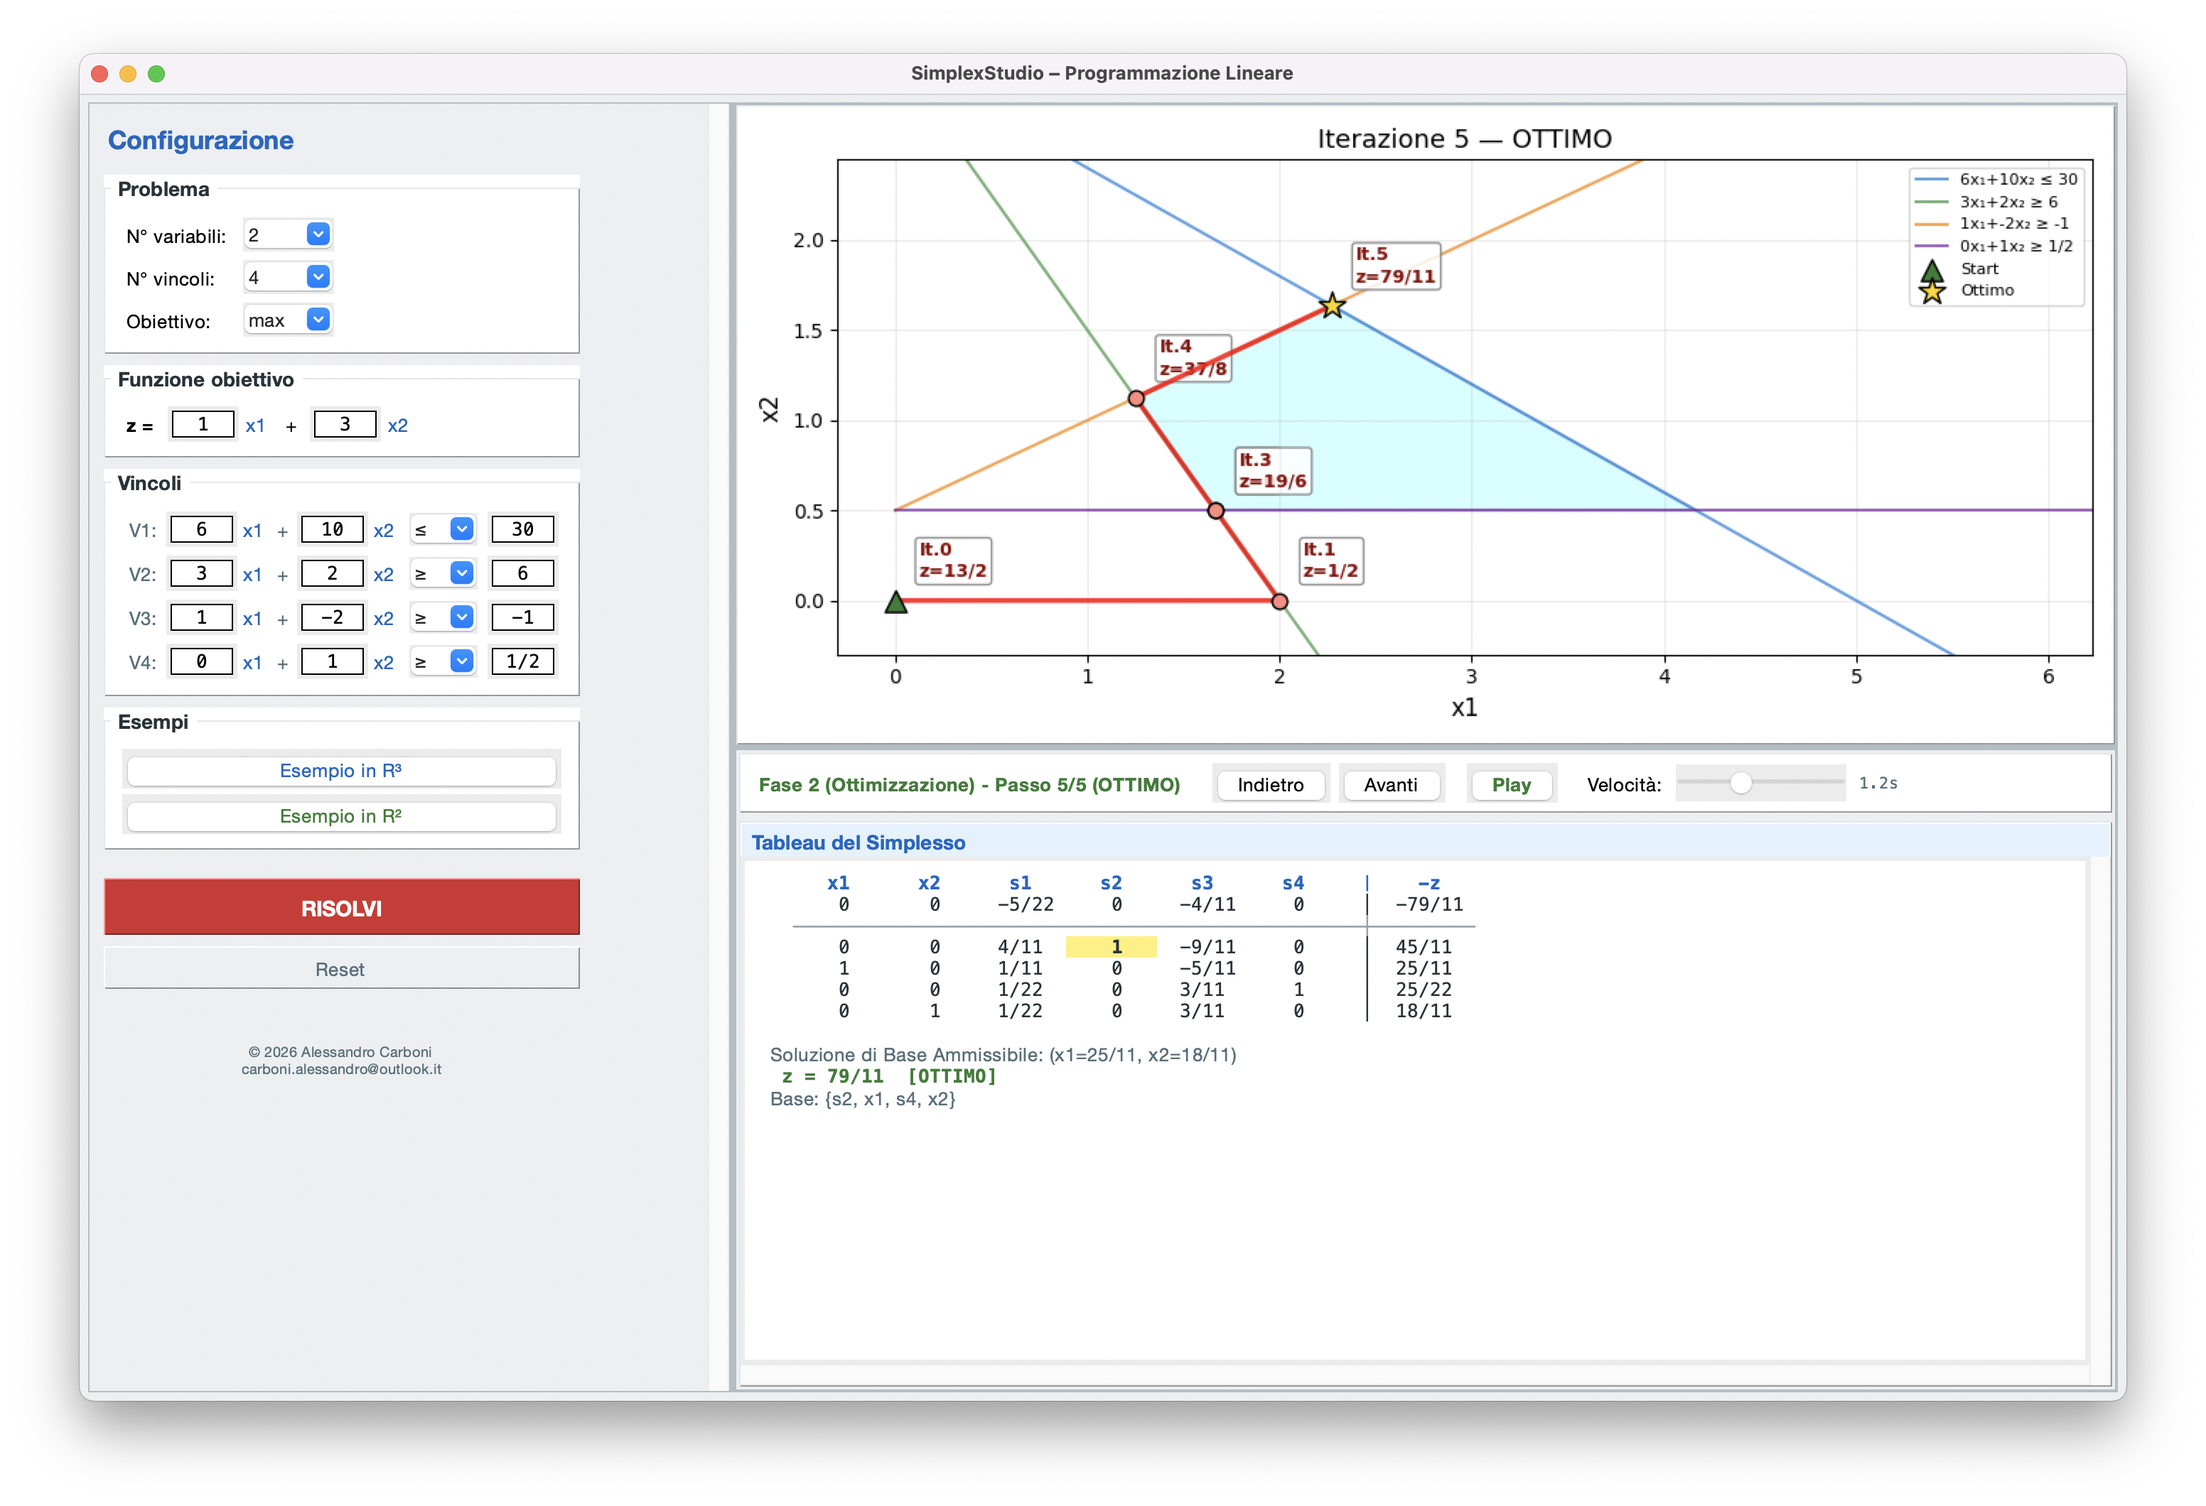
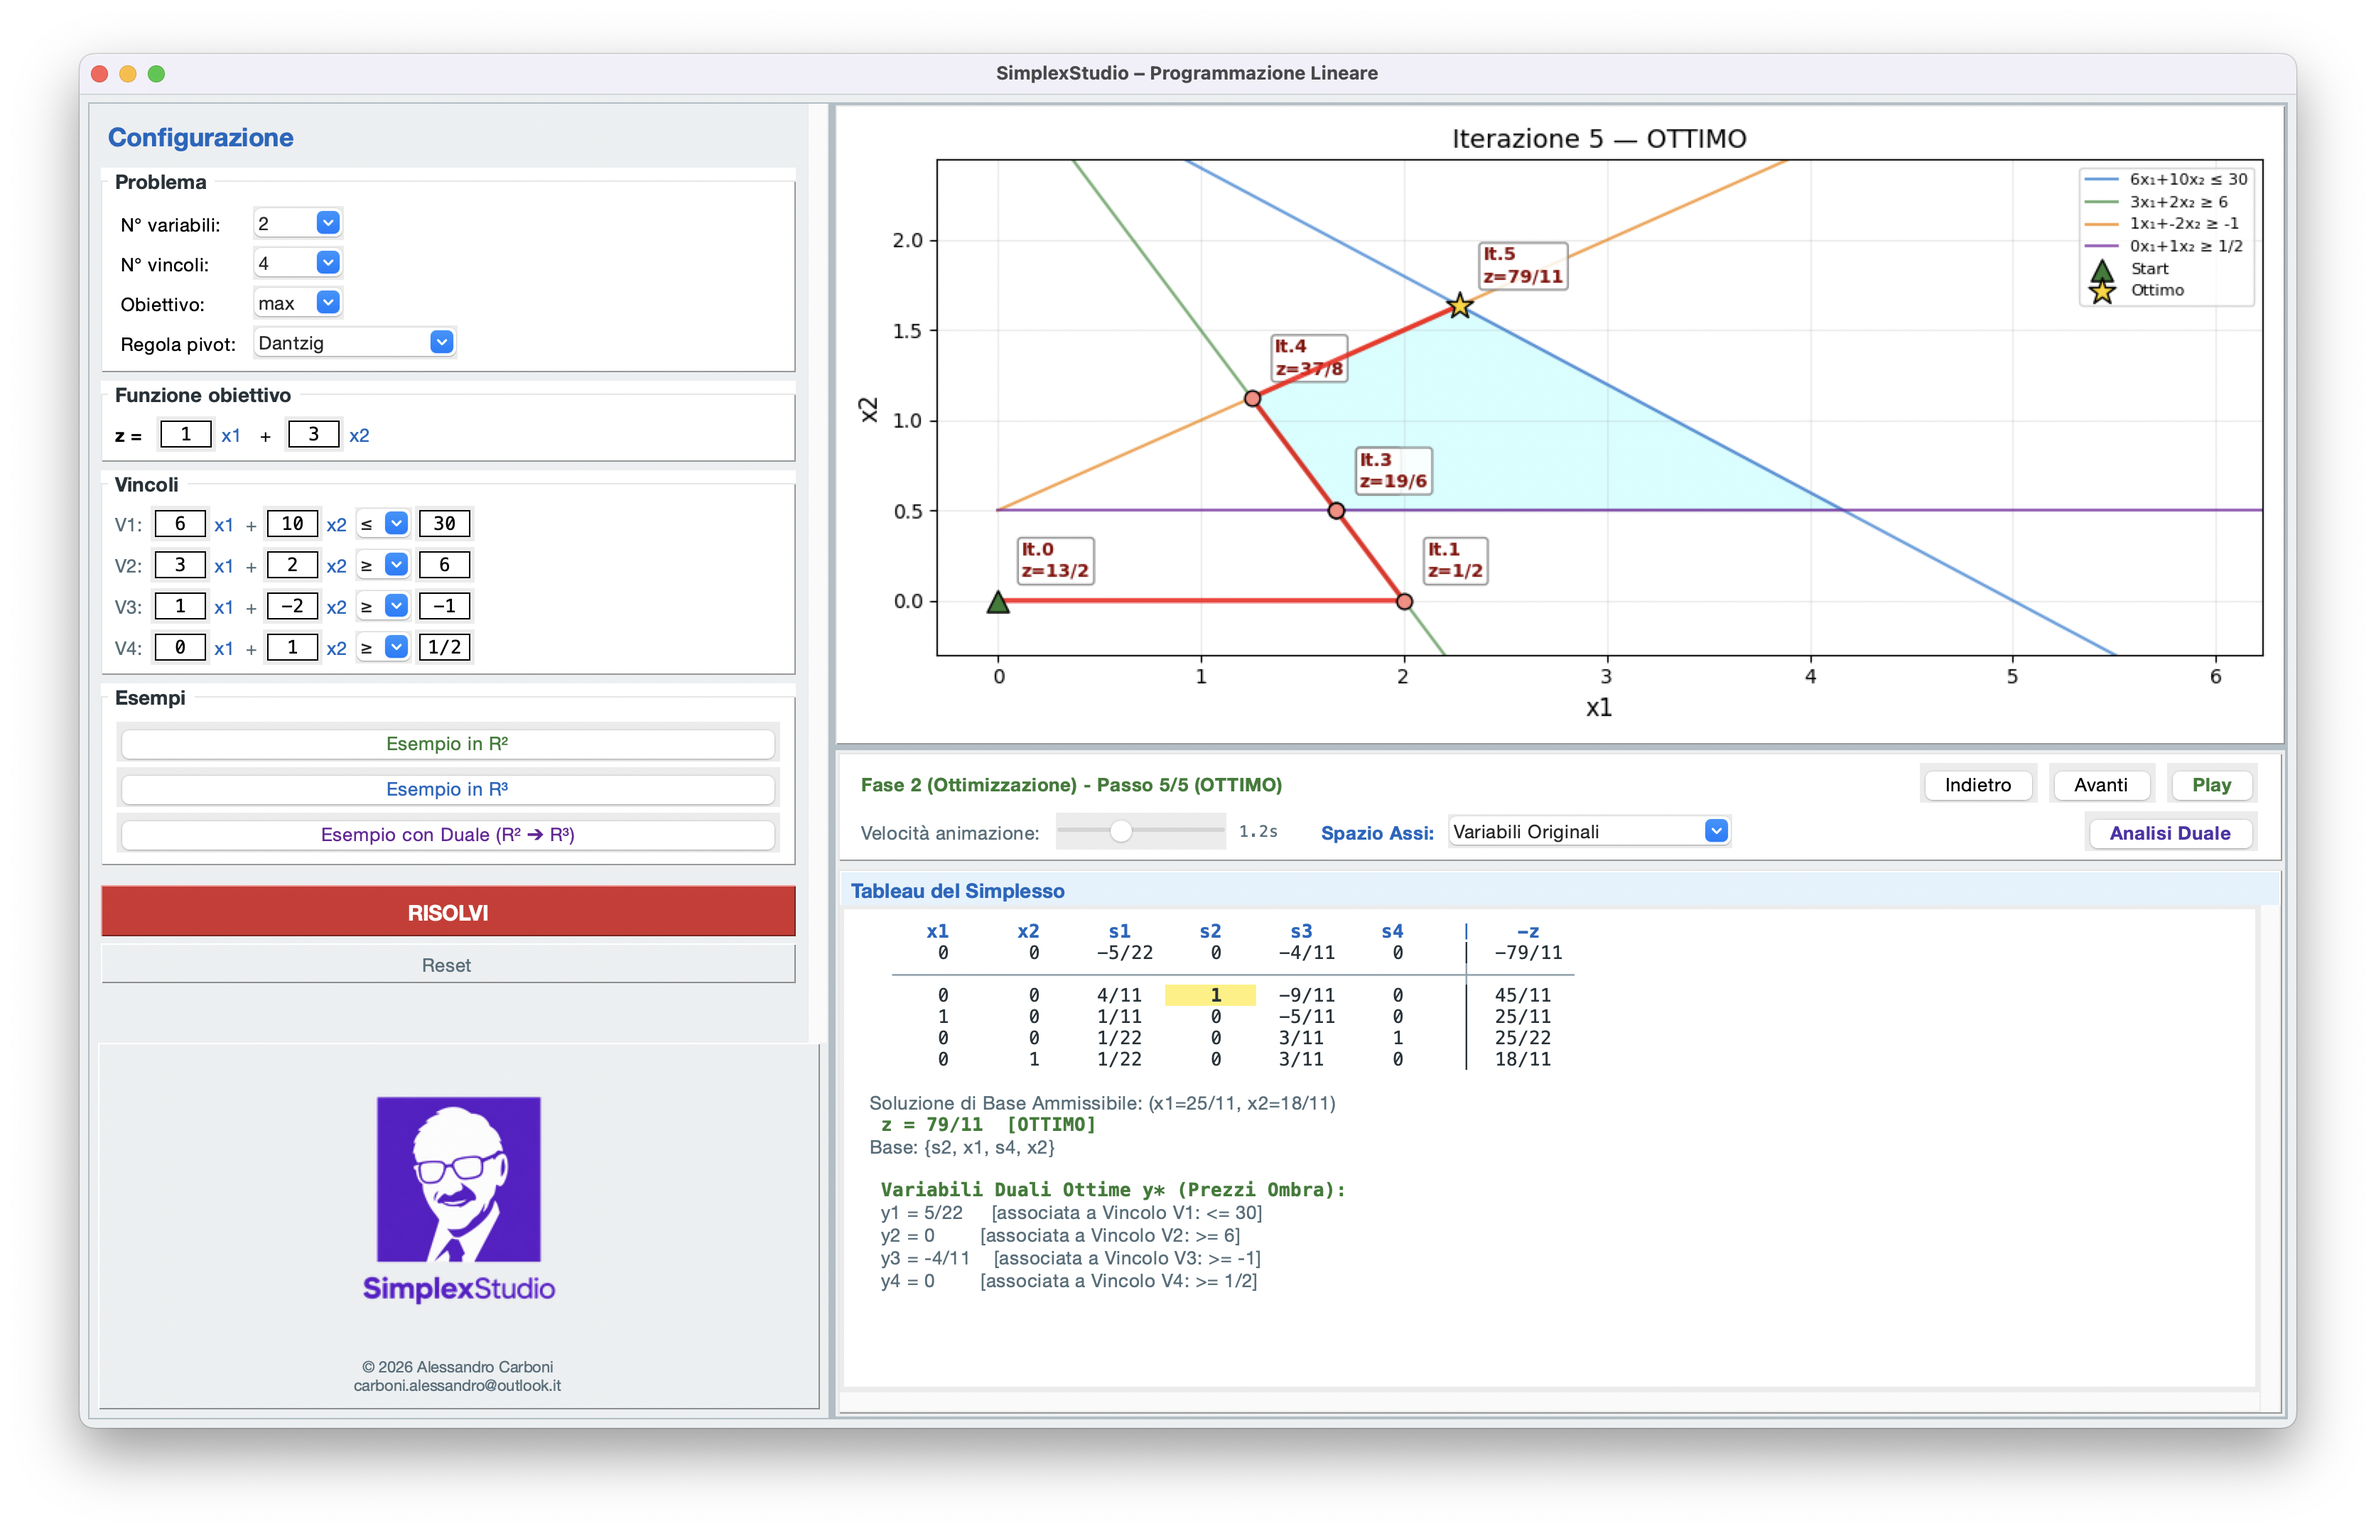
Docs: use full-resolution retina screenshots

Changed region(s): [[0.0312, 0.0311, 0.9688, 0.934], [0.4688, 0.1557, 0.5, 0.2179]]

diff --git a/README.md b/README.md
@@ -31,9 +31,30 @@ Interfaccia grafica con visualizzazione 2D/3D della regione ammissibile, animazi
   - `Esempio in R²` (vincoli misti $\le, \ge$ con Due Fasi)
   - `Esempio con Duale (R² ➔ R³)` (2 variabili decisionali e 3 vincoli: regione primale poligonale 2D e poliedro duale solido 3D con traiettorie sincronizzate)
 
-<p align="center">
-  <img src="docs/img/screenshot_2d.png" alt="SimplexStudio 2D Visualization" width="850">
-</p>
+---
+
+### Doppia Visualizzazione Geometrica (Spazio Originale vs Nuovi Assi)
+
+SimplexStudio permette di osservare la convergenza dell'algoritmo sia nello spazio cartesiano delle **variabili decisionali originali**, sia nello spazio mobile delle **variabili fuori base** (dove il vertice corrente corrisponde sempre all'origine degli assi):
+
+| Spazio Variabili Originali (R²) | Spazio Nuovi Assi Fuori Base (s₂, s₃) |
+|:---:|:---:|
+| <img src="docs/img/screenshot_2d.png" alt="Spazio Originale 2D" width="450"> | <img src="docs/img/screenshot_nuovi_assi.png" alt="Nuovi Assi Fuori Base" width="450"> |
+
+---
+
+### Studio e Analisi Completa della Dualità
+
+Cliccando sul pulsante **Analisi Duale**, SimplexStudio apre un modulo dedicato per esplorare in profondità la relazione tra problema primale e duale:
+- Formulazione automatica del **problema duale associato**
+- Verifica del **Teorema della Dualità Forte** ($z^* = w^*$)
+- Calcolo dei **Prezzi Ombra** $y^*$ (interpretazione economica della sensibilità)
+- Verifica interattiva delle condizioni del **Teorema degli Scarti Complementari** (*Complementary Slackness*)
+- Rendering 3D/2D del **Poliedro Duale** con animazione del percorso del vettore $y^{(k)}$ verso l'ottimo $y^*$
+
+| Formulazione & Scarti Complementari | Geometria del Poliedro Duale (3D) |
+|:---:|:---:|
+| <img src="docs/img/screenshot_duale_teoria.png" alt="Formulazione e Scarti Complementari" width="450"> | <img src="docs/img/screenshot_duale_3d.png" alt="Geometria Duale 3D" width="450"> |
 
 ---
 
@@ -192,16 +213,29 @@ s.t.
 
 ## Generare un eseguibile
 
-Per creare un file `.app` (macOS) o `.exe` (Windows) che non richiede Python installato:
+Per creare un'applicazione autonoma `.app` (macOS) o `.exe` (Windows) che non richiede Python installato:
 
 ```bash
 pip3 install pyinstaller
-pyinstaller --onefile --windowed --name "SimplexStudio" simplex_gui.py
 ```
 
-L'eseguibile sara nella cartella `dist/`.
+- **macOS** (genera `dist/SimplexStudio.app` con icona ufficiale):
+  ```bash
+  pyinstaller --noconsole --name "SimplexStudio" \
+    --icon "docs/img/icon.icns" \
+    --add-data "docs/img:docs/img" \
+    simplex_gui.py
+  ```
 
-> L'eseguibile funziona solo sul sistema operativo su cui viene compilato.
+- **Windows** (genera un singolo file `dist/SimplexStudio.exe`):
+  ```cmd
+  pyinstaller --noconsole --onefile --name "SimplexStudio" ^
+    --icon "docs/img/icon.ico" ^
+    --add-data "docs/img;docs/img" ^
+    simplex_gui.py
+  ```
+
+> L'eseguibile funziona sul sistema operativo su cui viene compilato.
 
 ---
 
